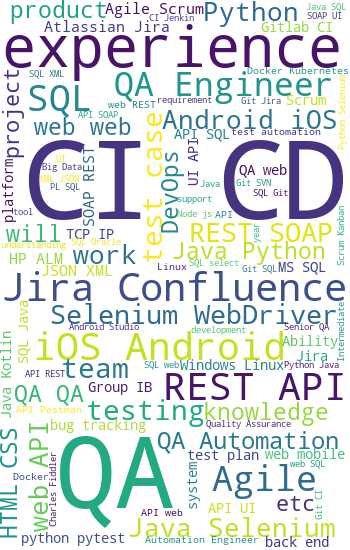
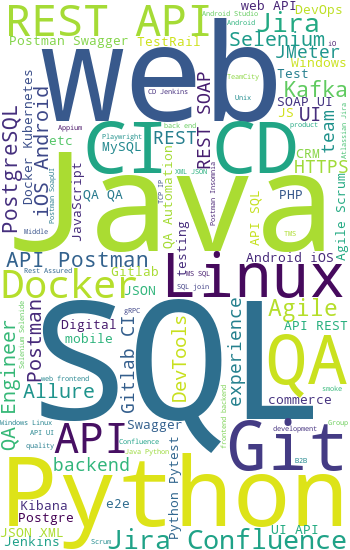
update word_cloud page and script.

diff --git a/templates/word_cloud.html b/templates/word_cloud.html
@@ -1,7 +1,7 @@
 {% extends "base.html" %}
   {% block title %}Home Page{% endblock %}
   {% block content %}
-
+            <h1>2024 г.</h1>
             <div id="chart" style="height: 550px;"><img src="/static/w_cloud.png"></div>
 
   {% endblock %}

diff --git a/word_cloud.py b/word_cloud.py
@@ -9,7 +9,7 @@ con = sqlite3.connect("testdb.db")
 cur = con.cursor()
 
 # Get descriptions from all vacancies
-year = '2020'
+year = '2024'
 sql = f"""SELECT json FROM vacancies WHERE published_at
               BETWEEN '{year}-01-01T00:00:00+0300' AND '{year}-12-31T11:59:59+0300';"""
 cur.execute(sql)
@@ -38,7 +38,7 @@ f.close()
 
 f = open("word_cloud.txt", "r", encoding="utf-8")
 text = f.read()
-mask = np.array(Image.open("alfa_channel.png"))
+# mask = np.array(Image.open("alfa_channel.png"))
 
 # Create the wordcloud object
 wordcloud = WordCloud(background_color="white",
